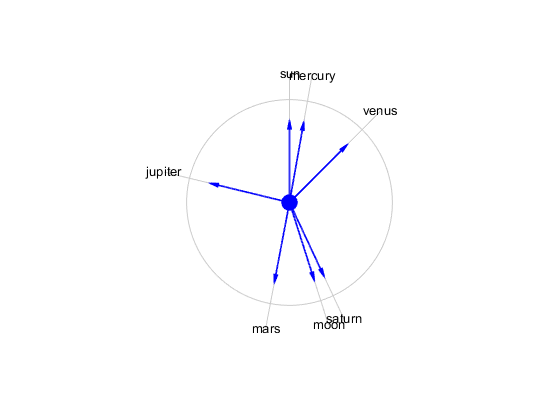
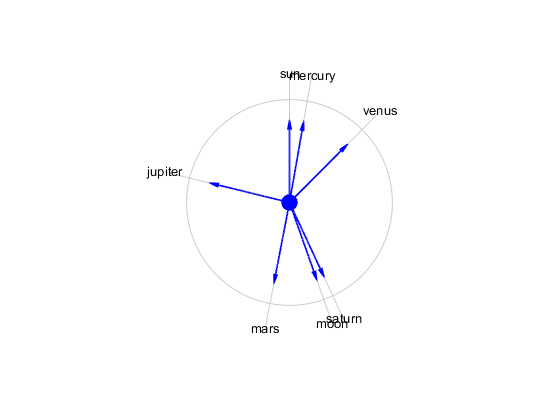
Updated some comments

diff --git a/html/calculations.html b/html/calculations.html
@@ -66,7 +66,7 @@ table td { padding:7px 5px; text-align:left; vertical-align:top; border:1px soli
 
 
 
-  </style></head><body><div class="content"><h1>Sky Clock calculations</h1><!--introduction--><p>I look up at the sky just after sunset and I see an especially bright star. It's probably a planet. But which one?</p><p>This question gives me a good opportunity to play around with MATLAB. Let's do a visualization that shows where the planets are relative to the earth and the sun. In the process, we'll use JSON services, the File Exchange, MATLAB graphics, and 3-D vector mathematics cribbed from Wikipedia.</p><p><img vspace="5" hspace="5" src="../explanation1.png" alt=""> </p><p>Here is the basic grade-school illustration of the solar system, the one that shows the planets rolling around the sun like peas on a plate. For simplicity, we're just showing the sun, the earth, the moon, Venus, and Mars. Viewed from above, it looks something like this.</p><p><img vspace="5" hspace="5" src="../explanation2.png" alt=""> </p><p>But we never see anything like this with our own eyes. Instead, we see bright spots on a dark background somewhere "up there." So let's simplify our problem to determining what direction each naked-eye planet is in. This leads to an image like this.</p><p><img vspace="5" hspace="5" src="../explanation3.png" alt=""> </p><p>Our goal is to make an accurate up-to-date version of this diagram. Specifically, relative to the sun, where should we look to find the moon and the naked-eye planets (Mercury, Venus, Mars, Jupiter, and Saturn)? To do this, we need to solve a few problems.</p><div><ul><li>Find the planets</li><li>Find the unit vector pointing from earth to each planet</li><li>Squash all these vectors onto a single plane</li><li>Visualize the resulting disk</li></ul></div><!--/introduction--><h2>Contents</h2><div><ul><li><a href="#1">Where Are the Planets?</a></li><li><a href="#2">Parse the data</a></li><li><a href="#5">Aerospace Toolbox Ephemeris</a></li><li><a href="#6">Build the Solar System Structure</a></li><li><a href="#7">Plot the planets</a></li><li><a href="#12">Plot the result</a></li></ul></div><h2>Where Are the Planets?<a name="1"></a></h2><p>First of all, where are the planets? There's a free JSON service for just about everything these days. I found planetary data hosted on Davy Wybiral's site here:</p><p><a href="http://davywybiral.blogspot.com/2011/11/planetary-states-api.html">http://davywybiral.blogspot.com/2011/11/planetary-states-api.html</a></p><pre class="codeinput">url = <span class="string">'http://www.astro-phys.com/api/de406/states?bodies=sun,moon,mercury,venus,earth,mars,jupiter,saturn'</span>;
+  </style></head><body><div class="content"><h1>Sky Clock calculations</h1><!--introduction--><p>I look up at the sky just after sunset and I see an especially bright star. It's probably a planet. But which one?</p><p>This question gives me a good opportunity to play around with MATLAB. Let's do a visualization that shows where the planets are relative to the earth and the sun. In the process, we'll use JSON services, the File Exchange, MATLAB graphics, and 3-D vector mathematics cribbed from Wikipedia.</p><p><img vspace="5" hspace="5" src="../explanation1.png" alt=""> </p><p>Here is the basic grade-school illustration of the solar system, the one that shows the planets rolling around the sun like peas on a plate. For simplicity, we're just showing the sun, the earth, the moon, Venus, and Mars.</p><p>But we never see anything like this with our own eyes. Instead, we see bright spots on a dark background somewhere "up there." So let's simplify our problem to determining what direction each naked-eye planet is in. This leads to an image like this.</p><p><img vspace="5" hspace="5" src="../explanation3.png" alt=""> </p><p>Our goal is to make an accurate up-to-date version of this diagram. Specifically, relative to the sun, where should we look to find the moon and the naked-eye planets (Mercury, Venus, Mars, Jupiter, and Saturn)? To do this, we need to solve a few problems.</p><div><ol><li>Find the planets</li><li>Find the unit vector pointing from earth to each planet</li><li>Squash all these vectors onto a single plane</li><li>Visualize the resulting disk</li></ol></div><!--/introduction--><h2>Contents</h2><div><ul><li><a href="#1">Where Are the Planets?</a></li><li><a href="#2">Parse the data</a></li><li><a href="#5">Aerospace Toolbox Ephemeris</a></li><li><a href="#6">Build the Solar System Structure</a></li><li><a href="#7">Plot the planets</a></li><li><a href="#12">Plot the result</a></li></ul></div><h2>Where Are the Planets?<a name="1"></a></h2><p>First of all, where are the planets? There's a free JSON service for just about everything these days. I found planetary data hosted on Davy Wybiral's site here:</p><p><a href="http://davywybiral.blogspot.com/2011/11/planetary-states-api.html">http://davywybiral.blogspot.com/2011/11/planetary-states-api.html</a></p><pre class="codeinput">url = <span class="string">'http://www.astro-phys.com/api/de406/states?bodies=sun,moon,mercury,venus,earth,mars,jupiter,saturn'</span>;
 json = urlread(url);
 </pre><h2>Parse the data<a name="2"></a></h2><p>Now we can use <a href="http://www.mathworks.com/matlabcentral/fileexchange/42236-parse-json-text">Joe Hicklin's JSON parser</a> from the File Exchange. It returns a well-bahaved MATLAB structure.</p><pre class="codeinput">data = JSON.parse(json)
 </pre><pre class="codeoutput">
@@ -81,7 +81,7 @@ data =
 ans = 
 
     mercury: [1x6 double]
-        sun: [2.3917e+05 -2.6441e+05 -1.3212e+05 818.2698 465.3311 180.8964]
+        sun: [2.3929e+05 -2.6435e+05 -1.3210e+05 818.1578 465.4666 180.9560]
        moon: [1x6 double]
     jupiter: [1x6 double]
        mars: [1x6 double]
@@ -109,7 +109,6 @@ cla
 <span class="keyword">for</span> i = 1:length(ss)
     p = ss(i).position/au;
 
-<span class="comment">%     plot3(p(1),p(2),p(3),'r.');</span>
     surf(x/k+p(1),y/k+p(2),z/k+p(3))
 
     text(p(1),p(2),p(3),[<span class="string">'   '</span> ss(i).name]);
@@ -120,9 +119,7 @@ hold <span class="string">off</span>
 axis <span class="string">equal</span>
 shading <span class="string">flat</span>
 light
-</pre><img vspace="5" hspace="5" src="calculations_01.png" alt=""> <p>This is accurate, but not yet very helpful. Let's now calculate the geocentric position vectors of each planet. To do this, we'll put the earth at the center of the system. Copernicus won't mind, because A) he's dead, and B) we admit this reference frame orbits the sun.</p><p>We're also going to use another file from the File Exchange. Georg Stillfried's <a href="http://www.mathworks.com/matlabcentral/fileexchange/25372">mArrow3</a> will help us make nice 3-D arrows in space.</p><pre class="codeinput">addpath([fxpath(25372) filesep])
-
-clf
+</pre><img vspace="5" hspace="5" src="calculations_01.png" alt=""> <p>This is accurate, but not yet very helpful. Let's now calculate the geocentric position vectors of each planet. To do this, we'll put the earth at the center of the system. Copernicus won't mind, because A) he's dead, and B) we admit this reference frame orbits the sun.</p><p>We're also going to use another file from the File Exchange. Georg Stillfried's <a href="http://www.mathworks.com/matlabcentral/fileexchange/25372">mArrow3</a> will help us make nice 3-D arrows in space.</p><pre class="codeinput">clf
 pEarth = ss(5).position;
 <span class="keyword">for</span> i = 1:length(ss)
     <span class="comment">% pe = position relative to earth</span>
@@ -156,7 +153,7 @@ view(-45,15)
 a = axis;
 axis(a/2)
 set(gca,<span class="string">'Clipping'</span>,<span class="string">'off'</span>)
-</pre><img vspace="5" hspace="5" src="calculations_03.png" alt=""> <p>Now we project the vectors onto the plane defined by earth-moon-sun. I learned what I needed from Wikipedia here: <a href="http://en.wikipedia.org/wiki/Vector_projection">Vector Projection</a>.</p><p>Since we are working with the normal, we are technically doing a <a href="http://en.wikipedia.org/wiki/Vector_projection#Vector_rejection_2">vector rejection</a>. Using Wikipedia's notation, this is given by</p><p><img src="calculations_eq07762868630210860277.png" alt="$$ \mathbf{a_2} = \mathbf{a} - \frac{\mathbf{a} \cdot \mathbf{b}}{\mathbf{b} \cdot \mathbf{b}} \mathbf{b} $$"></p><pre class="codeinput">hold <span class="string">on</span>
+</pre><img vspace="5" hspace="5" src="calculations_03.png" alt=""> <p>Now we project the vectors onto the plane defined by earth's motion around the sun. I learned what I needed from Wikipedia here: <a href="http://en.wikipedia.org/wiki/Vector_projection">Vector Projection</a>.</p><p>Since we are working with the normal, we are technically doing a <a href="http://en.wikipedia.org/wiki/Vector_projection#Vector_rejection_2">vector rejection</a>. Using Wikipedia's notation, this is given by</p><p><img src="calculations_eq07762868630210860277.png" alt="$$ \mathbf{a_2} = \mathbf{a} - \frac{\mathbf{a} \cdot \mathbf{b}}{\mathbf{b} \cdot \mathbf{b}} \mathbf{b} $$"></p><pre class="codeinput">hold <span class="string">on</span>
 <span class="keyword">for</span> i = 1:length(ss)
     pne = ss(i).pne;
     pneProj = pne - dot(pne,earthPlaneNormalUnit)/dot(earthPlaneNormalUnit,earthPlaneNormalUnit)*earthPlaneNormalUnit;
@@ -203,7 +200,7 @@ line(0,0,1,<span class="string">'Marker'</span>,<span class="string">'.'</span>,
 
 axis <span class="string">equal</span>
 axis(2*[-1 1 -1 1])
-</pre><img vspace="5" hspace="5" src="calculations_05.png" alt=""> <p>And there you have it: an accurate map of where the planets are in the sky for today's date. In this orientation, planets "following" the sun through the sky are on the left side of the circle. So Jupiter will be high in the sky as the sun sets. And that is a very satisfying answer to my question, by way of vector math, JSON feeds, MATLAB graphics, and the the File Exchange.</p><p class="footer"><br><a href="http://www.mathworks.com/products/matlab/">Published with MATLAB&reg; R2014b</a><br></p></div><!--
+</pre><img vspace="5" hspace="5" src="calculations_05.png" alt=""> <p>And there you have it: an accurate map of where the planets are in the sky for today's date. In this orientation, planets "following" the sun through the sky are on the left side of the circle. So Jupiter will be high in the sky as the sun sets.</p><p>And that is a very satisfying answer to my question, by way of vector math, JSON feeds, MATLAB graphics, and the the File Exchange.</p><p class="footer"><br><a href="http://www.mathworks.com/products/matlab/">Published with MATLAB&reg; R2014b</a><br></p></div><!--
 ##### SOURCE BEGIN #####
 %% Sky Clock calculations
 %
@@ -221,9 +218,7 @@ axis(2*[-1 1 -1 1])
 % Here is the basic grade-school illustration of the solar system, the one
 % that shows the planets rolling around the sun like peas on a plate. For
 % simplicity, we're just showing the sun, the earth, the moon, Venus, and
-% Mars. Viewed from above, it looks something like this.
-%
-% <<../explanation2.png>>
+% Mars. 
 %
 % But we never see anything like this with our own eyes. Instead, we see
 % bright spots on a dark background somewhere "up there." So let's simplify
@@ -237,10 +232,10 @@ axis(2*[-1 1 -1 1])
 % and the naked-eye planets (Mercury, Venus, Mars, Jupiter, and Saturn)? To
 % do this, we need to solve a few problems.
 %
-% * Find the planets
-% * Find the unit vector pointing from earth to each planet
-% * Squash all these vectors onto a single plane
-% * Visualize the resulting disk
+% # Find the planets
+% # Find the unit vector pointing from earth to each planet
+% # Squash all these vectors onto a single plane
+% # Visualize the resulting disk
 
 %% Where Are the Planets?
 % First of all, where are the planets? There's a free JSON service for just
@@ -303,7 +298,6 @@ cla
 for i = 1:length(ss)
     p = ss(i).position/au;
     
-%     plot3(p(1),p(2),p(3),'r.');
     surf(x/k+p(1),y/k+p(2),z/k+p(3))
     
     text(p(1),p(2),p(3),['   ' ss(i).name]);
@@ -324,8 +318,6 @@ light
 % We're also going to use another file from the File Exchange. Georg
 % Stillfried's <http://www.mathworks.com/matlabcentral/fileexchange/25372
 % mArrow3> will help us make nice 3-D arrows in space.
-
-addpath([fxpath(25372) filesep])
 
 clf
 pEarth = ss(5).position;
@@ -375,8 +367,8 @@ axis(a/2)
 set(gca,'Clipping','off')
 
 %%
-% Now we project the vectors onto the plane defined by earth-moon-sun. I
-% learned what I needed from Wikipedia here:
+% Now we project the vectors onto the plane defined by earth's motion
+% around the sun. I learned what I needed from Wikipedia here:
 % <http://en.wikipedia.org/wiki/Vector_projection Vector Projection>.
 %
 % Since we are working with the normal, we are technically doing a
@@ -454,9 +446,10 @@ axis(2*[-1 1 -1 1])
 % And there you have it: an accurate map of where the planets are in the
 % sky for today's date. In this orientation, planets "following" the sun
 % through the sky are on the left side of the circle. So Jupiter will be
-% high in the sky as the sun sets. And that is a very satisfying answer to
-% my question, by way of vector math, JSON feeds, MATLAB graphics, and the
-% the File Exchange.
+% high in the sky as the sun sets.
+%
+% And that is a very satisfying answer to my question, by way of vector
+% math, JSON feeds, MATLAB graphics, and the the File Exchange.
 
 ##### SOURCE END #####
 --></body></html>

diff --git a/calculations.m b/calculations.m
@@ -14,9 +14,7 @@
 % Here is the basic grade-school illustration of the solar system, the one
 % that shows the planets rolling around the sun like peas on a plate. For
 % simplicity, we're just showing the sun, the earth, the moon, Venus, and
-% Mars. Viewed from above, it looks something like this.
-%
-% <<../explanation2.png>>
+% Mars. 
 %
 % But we never see anything like this with our own eyes. Instead, we see
 % bright spots on a dark background somewhere "up there." So let's simplify
@@ -30,10 +28,10 @@
 % and the naked-eye planets (Mercury, Venus, Mars, Jupiter, and Saturn)? To
 % do this, we need to solve a few problems.
 %
-% * Find the planets
-% * Find the unit vector pointing from earth to each planet
-% * Squash all these vectors onto a single plane
-% * Visualize the resulting disk
+% # Find the planets
+% # Find the unit vector pointing from earth to each planet
+% # Squash all these vectors onto a single plane
+% # Visualize the resulting disk
 
 %% Where Are the Planets?
 % First of all, where are the planets? There's a free JSON service for just
@@ -165,8 +163,8 @@ axis(a/2)
 set(gca,'Clipping','off')
 
 %%
-% Now we project the vectors onto the plane defined by earth-moon-sun. I
-% learned what I needed from Wikipedia here:
+% Now we project the vectors onto the plane defined by earth's motion
+% around the sun. I learned what I needed from Wikipedia here:
 % <http://en.wikipedia.org/wiki/Vector_projection Vector Projection>.
 %
 % Since we are working with the normal, we are technically doing a
@@ -244,6 +242,7 @@ axis(2*[-1 1 -1 1])
 % And there you have it: an accurate map of where the planets are in the
 % sky for today's date. In this orientation, planets "following" the sun
 % through the sky are on the left side of the circle. So Jupiter will be
-% high in the sky as the sun sets. And that is a very satisfying answer to
-% my question, by way of vector math, JSON feeds, MATLAB graphics, and the
-% the File Exchange.
+% high in the sky as the sun sets.
+%
+% And that is a very satisfying answer to my question, by way of vector
+% math, JSON feeds, MATLAB graphics, and the the File Exchange.
